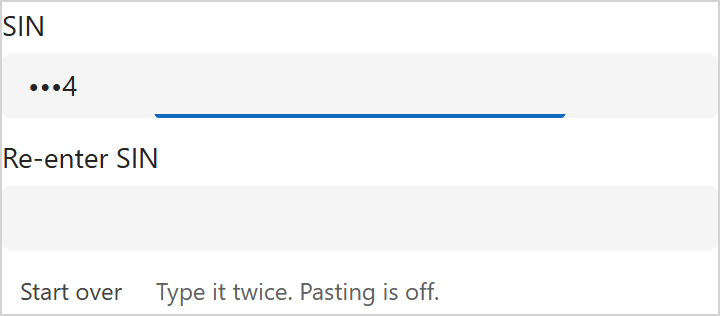
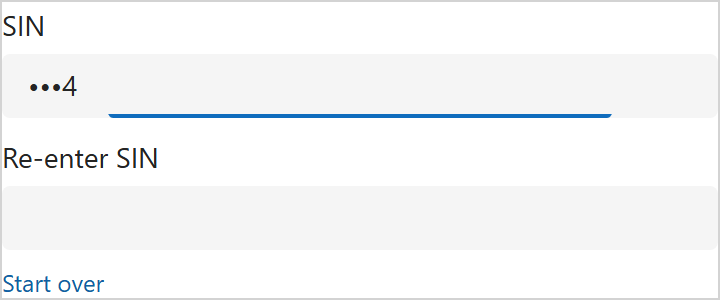
Focus selects the entry, Start over is a small link, no hint text
On the user's call. Focusing a field selects what it shows, so the next
keystroke replaces the entry and Backspace clears it; an entry is never
added to after coming back into the field. The mouseup after a click would
collapse that selection, so the first one after a focus is swallowed. Start
over is a small Fluent Link under the fields, shown only while an entry is
in progress. The hint text is gone, which also puts the idle control at the
stock field height. Manifest 0.3.6.

diff --git a/SealedInput/SealedInput/SealedInputView.tsx b/SealedInput/SealedInput/SealedInputView.tsx
@@ -1,5 +1,5 @@
 import * as React from "react";
-import { Button, Field, Input, Text, makeStyles, mergeClasses, tokens } from "@fluentui/react-components";
+import { Field, Input, Link, makeStyles, mergeClasses, tokens } from "@fluentui/react-components";
 import {
   FormLabel,
   Layout,
@@ -33,7 +33,7 @@ export interface ISealedInputViewProps {
 
 const useStyles = makeStyles({
   root: { display: "flex", flexDirection: "column", rowGap: tokens.spacingVerticalS, width: "100%", textAlign: "left" },
-  row: { display: "flex", alignItems: "center", columnGap: tokens.spacingHorizontalS, minHeight: "20px" },
+  row: { display: "flex", alignItems: "center", columnGap: tokens.spacingHorizontalS },
   fields: { display: "flex", flexDirection: "column", rowGap: tokens.spacingVerticalS },
   fieldsSide: { flexDirection: "row", alignItems: "flex-start", columnGap: tokens.spacingHorizontalM },
   field: { flex: "1 1 0", minWidth: 0 },
@@ -44,7 +44,8 @@ const useStyles = makeStyles({
   // <input> keeps otherwise and overflows a narrow cell with.
   fieldInline: { gridTemplateColumns: "auto minmax(0, 1fr)", paddingLeft: 0 },
   labelText: { whiteSpace: "nowrap" },
-  hint: { color: tokens.colorNeutralForeground3 },
+  // Start over: a small link under the fields, the size of a Field hint.
+  startOver: { fontSize: tokens.fontSizeBase200, lineHeight: tokens.lineHeightBase200 },
   input: { width: "100%", minWidth: 0 },
 });
 
@@ -149,7 +150,6 @@ export const SealedInputView: React.FC<ISealedInputViewProps> = ({ stored, disab
   const [second, setSecond] = React.useState("");
   const [revealed, setRevealed] = React.useState<Slot | null>(null);
   const [editing, setEditing] = React.useState(false); // false with a stored value = showing the dots
-  const [justSaved, setJustSaved] = React.useState(false);
 
   const firstRef = React.useRef<HTMLInputElement>(null);
   const secondRef = React.useRef<HTMLInputElement>(null);
@@ -190,7 +190,6 @@ export const SealedInputView: React.FC<ISealedInputViewProps> = ({ stored, disab
     if (!canCommit(first, second, rules)) return;
     window.clearTimeout(timer.current);
     setRevealed(null);
-    setJustSaved(true);
     onCommit(first);
     setFirst("");
     setSecond("");
@@ -206,11 +205,13 @@ export const SealedInputView: React.FC<ISealedInputViewProps> = ({ stored, disab
       const onBeforeInput = (e: InputEvent) => {
         e.preventDefault();
         if (disabled) return;
+        // The whole entry is selected (focus selects it): typing replaces it,
+        // Backspace clears it. An entry is never added to after coming back.
+        const allSelected = el.value.length > 0 && el.selectionStart === 0 && el.selectionEnd === el.value.length;
         if (e.inputType === "insertText" && e.data) {
           const typed = e.data;
           if (showingStored) {
             // First keystroke over the stored dots: start a fresh entry in this field.
-            setJustSaved(false);
             setEditing(true);
             setFirst(slot === "first" ? append("", typed, rules) : "");
             setSecond(slot === "second" ? append("", typed, rules) : "");
@@ -218,20 +219,19 @@ export const SealedInputView: React.FC<ISealedInputViewProps> = ({ stored, disab
             return;
           }
           setValue((v) => {
-            const next = append(v, typed, rules);
+            const next = append(allSelected ? "" : v, typed, rules);
             if (next !== v) reveal(slot);
             return next;
           });
         } else if (e.inputType === "deleteContentBackward") {
           if (showingStored) {
             // Backspace over the stored dots clears the column.
-            setJustSaved(false);
             setEditing(true);
             onCommit("");
             return;
           }
           setRevealed(null);
-          setValue(backspace);
+          setValue(allSelected ? () => "" : backspace);
         }
       };
       el.addEventListener("beforeinput", onBeforeInput);
@@ -240,6 +240,26 @@ export const SealedInputView: React.FC<ISealedInputViewProps> = ({ stored, disab
   };
   useSealed(firstRef, "first", setFirst);
   useSealed(secondRef, "second", setSecond);
+
+  // Focus selects whatever the field shows, so the next keystroke replaces
+  // it. The mouseup that follows a click would collapse that selection to a
+  // caret; the first one after a focus is swallowed.
+  const selectedOnFocus = React.useRef<Slot | null>(null);
+  const focusHandlers = (slot: Slot) => ({
+    onFocus: (e: React.FocusEvent<HTMLInputElement>) => {
+      e.currentTarget.select();
+      selectedOnFocus.current = slot;
+    },
+    onMouseUp: (e: React.MouseEvent<HTMLInputElement>) => {
+      if (selectedOnFocus.current !== slot) return;
+      selectedOnFocus.current = null;
+      e.preventDefault();
+    },
+    onBlur: () => {
+      selectedOnFocus.current = null;
+      setRevealed(null);
+    },
+  });
 
   const block = (e: React.SyntheticEvent) => e.preventDefault();
   const blocked = {
@@ -267,13 +287,6 @@ export const SealedInputView: React.FC<ISealedInputViewProps> = ({ stored, disab
   };
 
   const shown = (value: string, slot: Slot) => (showingStored ? STORED_DOTS : display(value, revealed === slot));
-  const hint = disabled
-    ? ""
-    : showingStored
-      ? justSaved
-        ? "Entered twice and stored. Save the record to keep it."
-        : "Stored. Type to replace, Backspace to clear."
-      : "Type it twice. Pasting is off.";
 
   return (
     <div
@@ -302,8 +315,8 @@ export const SealedInputView: React.FC<ISealedInputViewProps> = ({ stored, disab
             value={shown(first, "first")}
             disabled={disabled}
             onChange={() => undefined}
-            onBlur={() => setRevealed(null)}
             onKeyDown={onKeyDown("first")}
+            {...focusHandlers("first")}
             appearance="filled-darker"
             className={styles.input}
             aria-label={label}
@@ -327,7 +340,7 @@ export const SealedInputView: React.FC<ISealedInputViewProps> = ({ stored, disab
             value={shown(second, "second")}
             disabled={disabled}
             onChange={() => undefined}
-            onBlur={() => setRevealed(null)}
+            {...focusHandlers("second")}
             appearance="filled-darker"
             className={styles.input}
             aria-label={`Re-enter ${label}`}
@@ -337,16 +350,11 @@ export const SealedInputView: React.FC<ISealedInputViewProps> = ({ stored, disab
           />
         </Field>
       </div>
-      {!disabled && (
+      {!disabled && state === "entering" && (
         <div className={styles.row}>
-          {state === "entering" && (
-            <Button size="small" appearance="subtle" onClick={startOver} data-testid="sealed-startover">
-              Start over
-            </Button>
-          )}
-          <Text size={200} className={styles.hint} data-testid="sealed-hint">
-            {hint}
-          </Text>
+          <Link as="button" type="button" onClick={startOver} className={styles.startOver} data-testid="sealed-startover">
+            Start over
+          </Link>
         </div>
       )}
     </div>

diff --git a/docs/usage.md b/docs/usage.md
@@ -37,7 +37,8 @@ column back through the Web API to confirm it holds exactly what was typed.
 
 ## What the user sees
 
-Always two fields. An empty column shows them empty, with a hint.
+Always two fields. An empty column shows them empty. There is no hint text;
+the labels say what to do.
 
 ![empty: SIN and Re-enter SIN fields](img/entry-empty.png)
 
@@ -56,9 +57,12 @@ the cell, so the same control stacks on a phone or in a narrow section.
 |---|---|
 | ![stacked](img/layout-narrow.png) | ![side by side](img/layout-wide.png) |
 
-Enter, or Tab, moves to the second field. When the second entry is as long as
-the first and differs, the control says so under the second field. Nothing is
-stored. Backspace and retype, or **Start over** to clear both fields.
+Enter, or Tab, moves to the second field. Coming back into a field that
+already holds an entry selects the entry, so the next keystroke replaces it
+and Backspace clears it; an entry is never added to after leaving the field.
+When the second entry is as long as the first and differs, the control says
+so under the second field. Nothing is stored. Retype, or **Start over**, a
+small link under the fields while an entry is in progress, to clear both.
 
 ![Does not match the first entry](img/entry-mismatch.png)
 

diff --git a/README.md b/README.md
@@ -110,6 +110,14 @@ Each of these was an open question in the first README.
   label as a `<label>` whose id ends in `-field-label`; left vs above is
   decided from bounding boxes, and a hidden label borrows the position from a
   sibling cell. Outside such a container (the harness) it is "hidden, above".
+- **Interaction (2026-09-09, later that evening, on the user's call).** Focus
+  selects the field's entry (or the stored dots), so typing replaces and
+  Backspace clears; an entry is never appended to after coming back into
+  the field. The mouseup after a click would collapse the selection, so the
+  first one after a focus is swallowed. Start over is a small Fluent Link
+  under the fields, shown only while an entry is in progress; the hint text
+  ("Type it twice. Pasting is off." and the stored variants) is gone, which
+  also puts the control at the stock field height when idle.
 - **Tooling.** Skeleton copied from `xrm-plain-number` rather than
   `pac pcf init`, which pins Fluent 9.68.0 that the environment rejects.
   Playwright Test with a `webServer` entry, so `npx playwright test` is the
